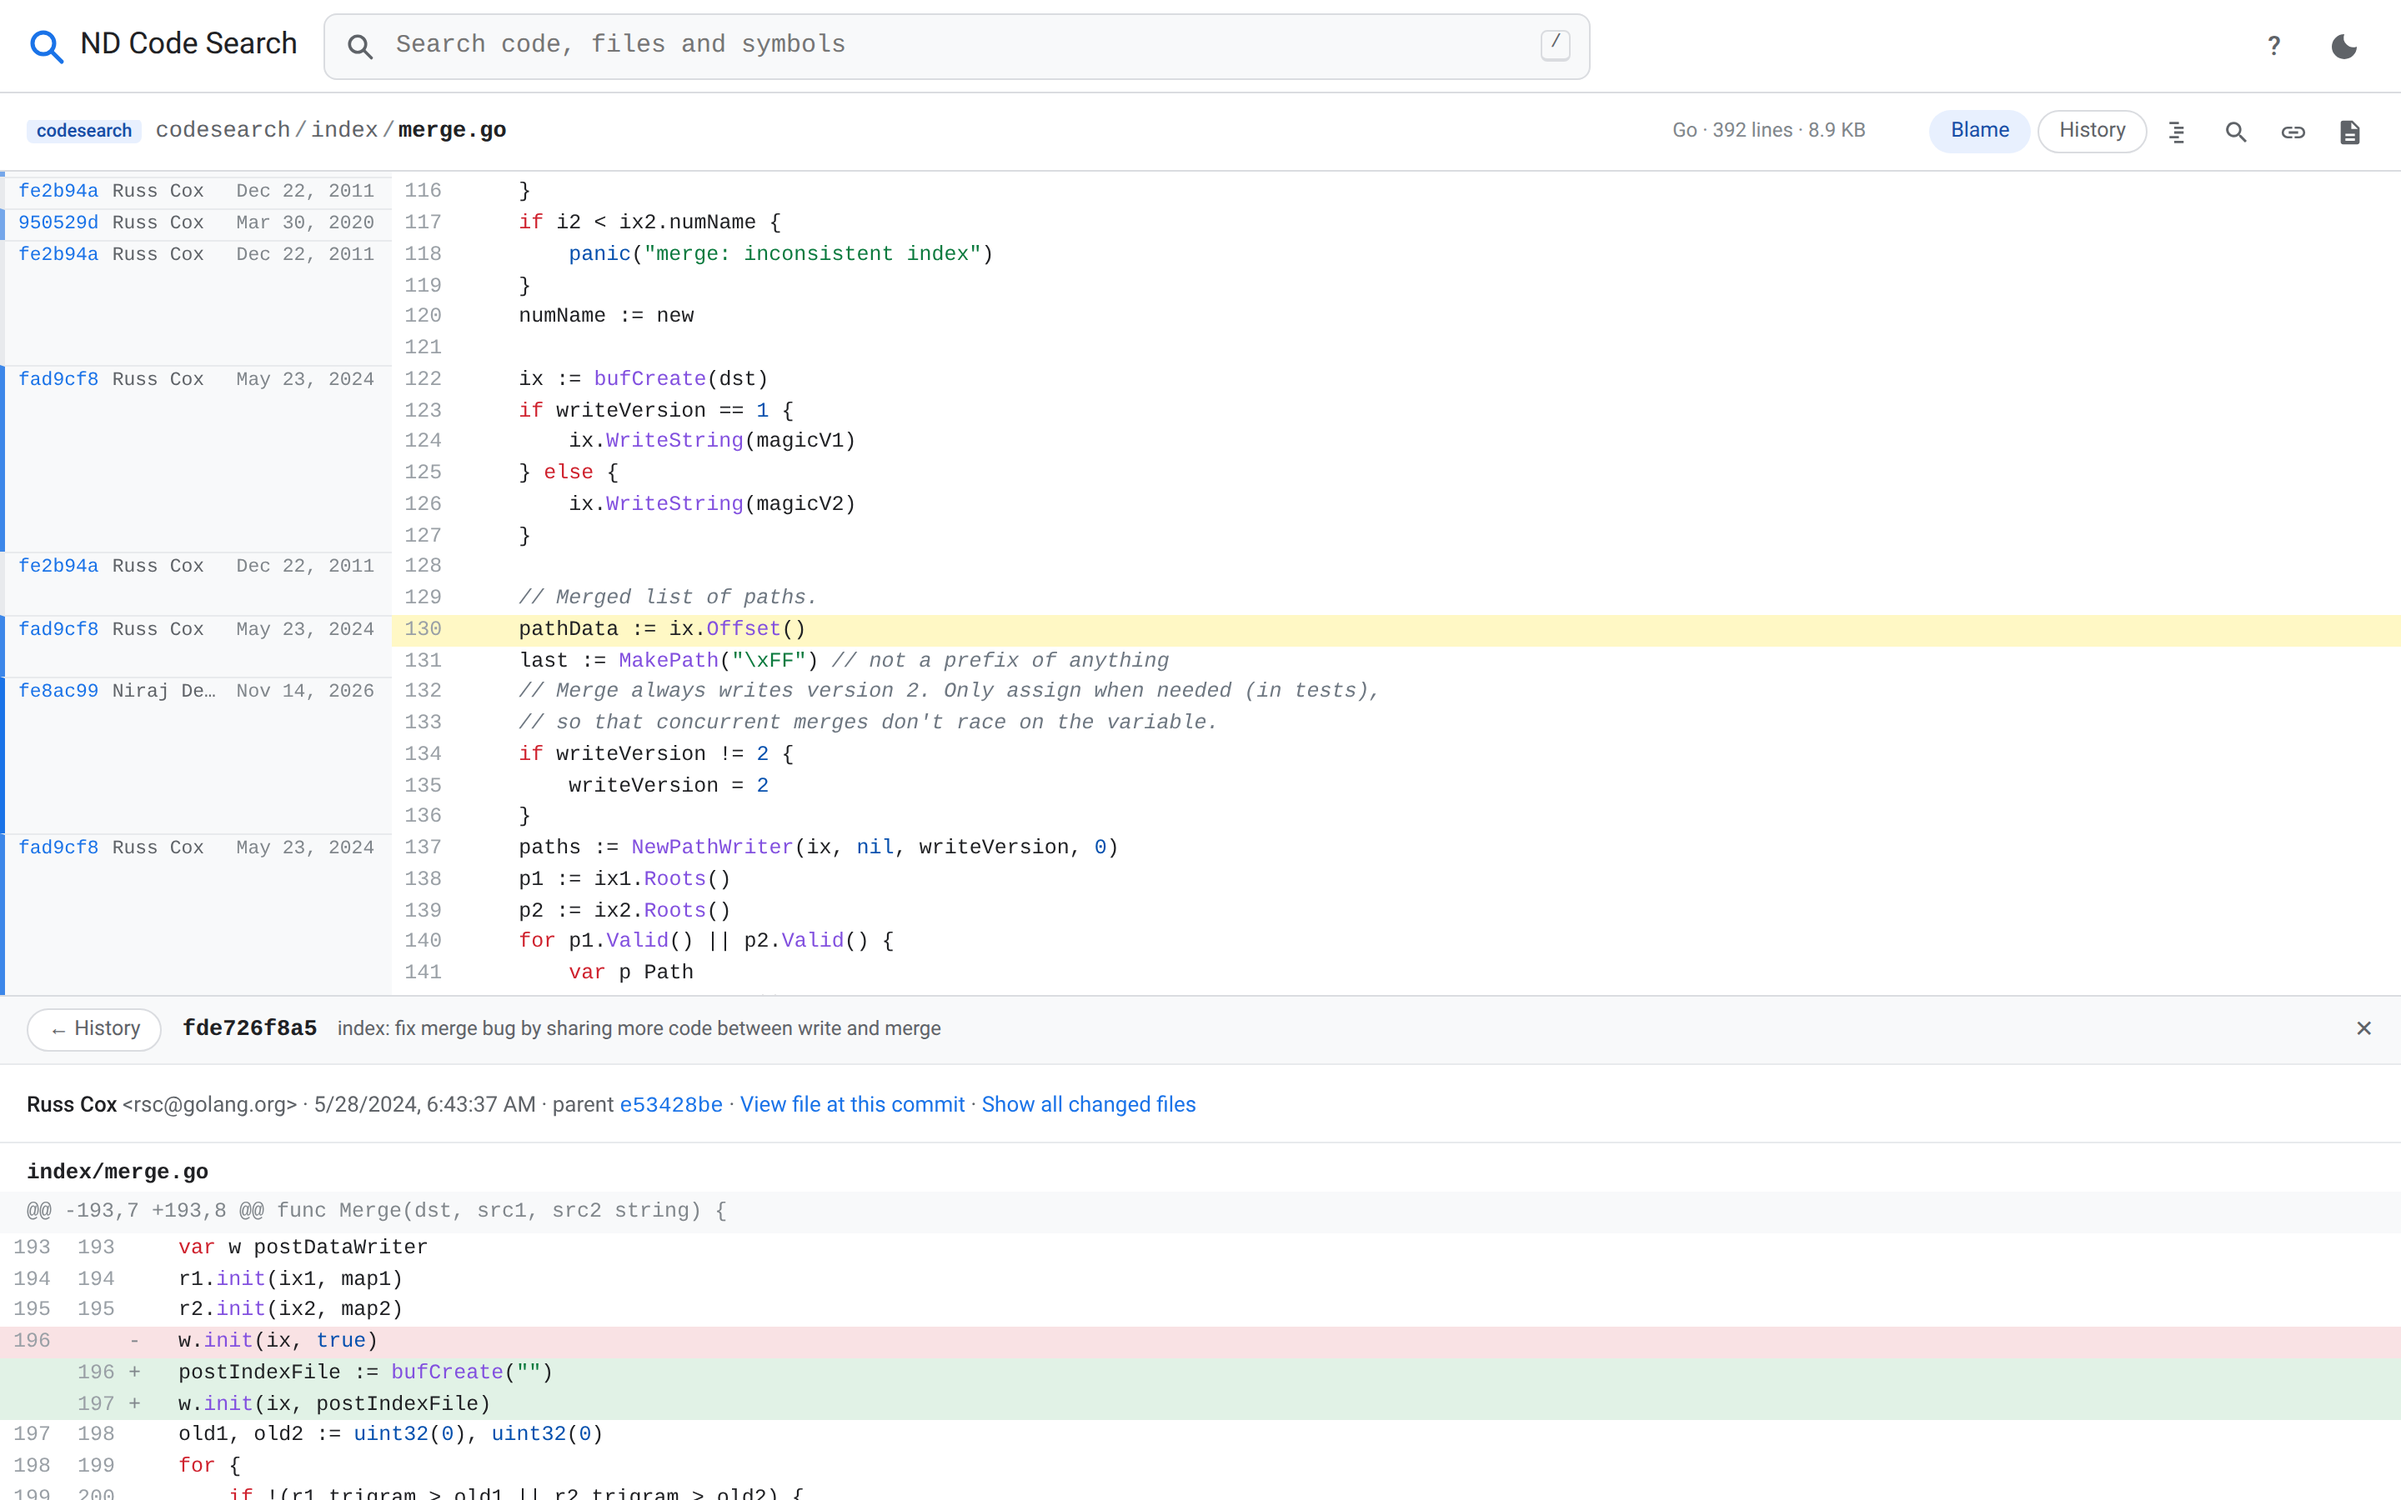
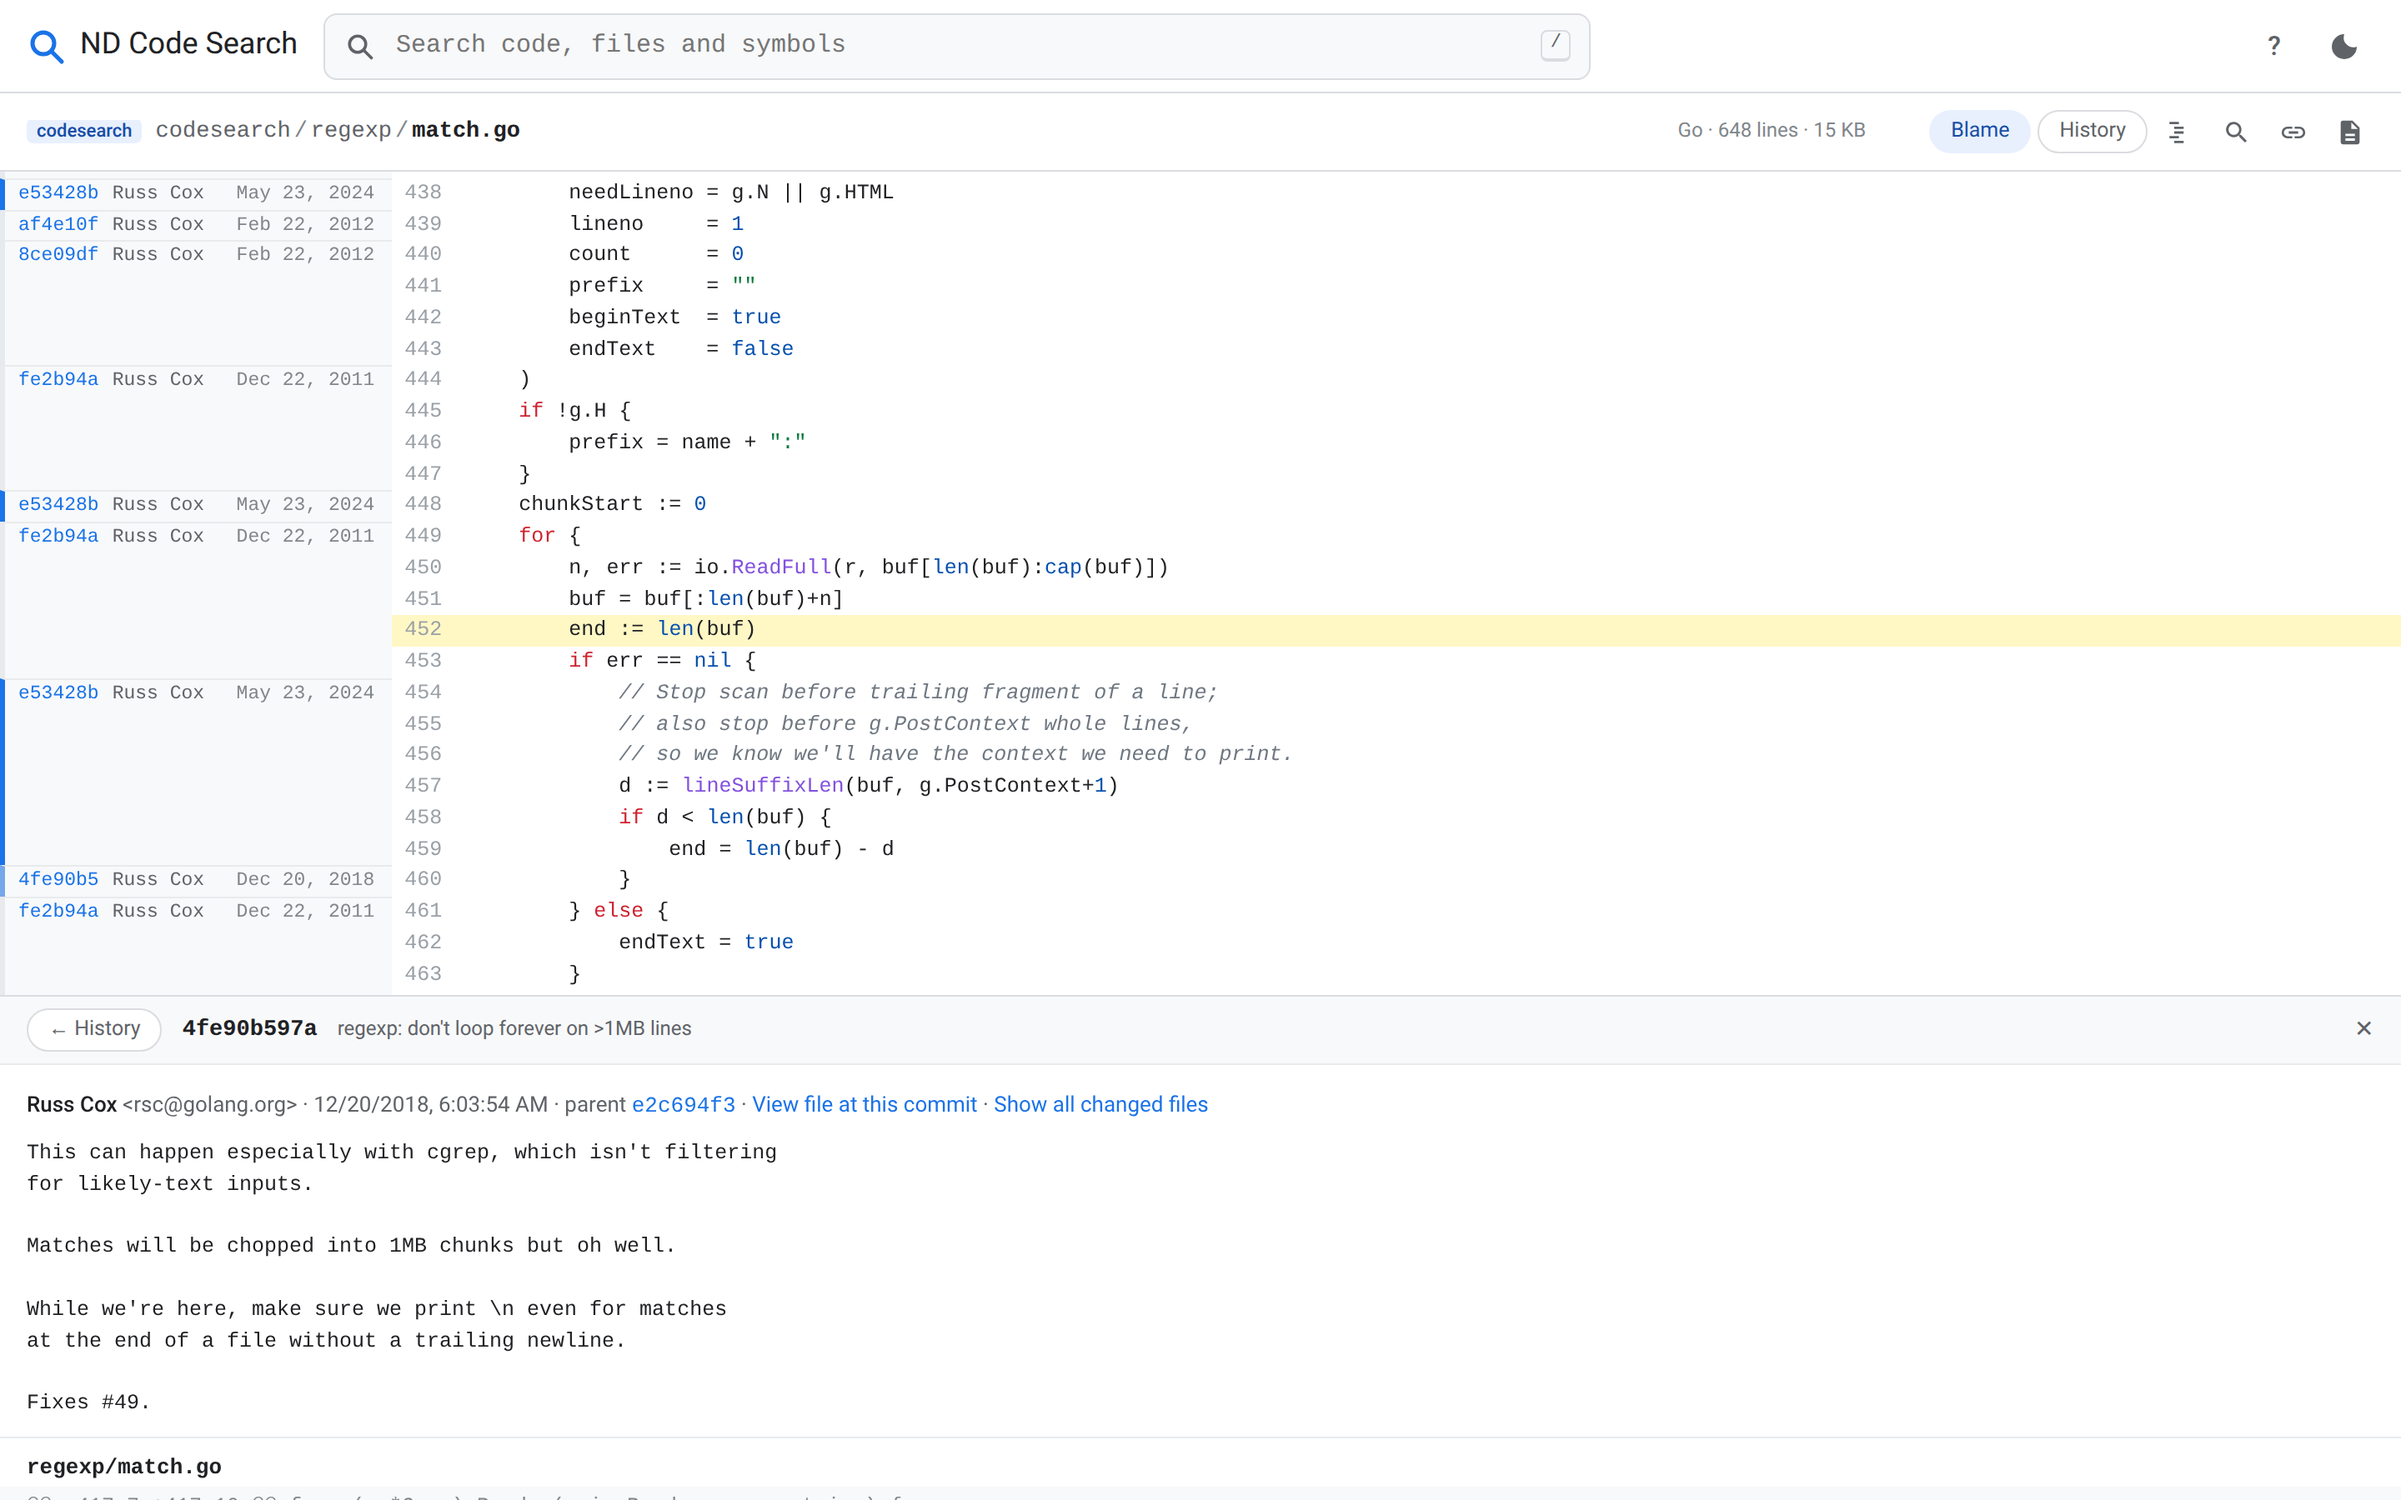
Rename module to github.com/ndesai/codesearch
Use this repository's own import path so the tools can be installed
with "go install github.com/ndesai/codesearch/cmd/...@latest", and
document that in the README.

Also retake the blame screenshot on a file whose history is entirely
from the original authors.

diff --git a/cmd/csweb/api.go b/cmd/csweb/api.go
@@ -24,11 +24,11 @@ import (
 	"unicode/utf8"
 
 	"github.com/alecthomas/chroma/v2"
-	"github.com/google/codesearch/internal/gitignore"
-	"github.com/google/codesearch/internal/indexer"
-	"github.com/google/codesearch/internal/lang"
-	"github.com/google/codesearch/internal/outline"
-	"github.com/google/codesearch/internal/search"
+	"github.com/ndesai/codesearch/internal/gitignore"
+	"github.com/ndesai/codesearch/internal/indexer"
+	"github.com/ndesai/codesearch/internal/lang"
+	"github.com/ndesai/codesearch/internal/outline"
+	"github.com/ndesai/codesearch/internal/search"
 )
 
 type server struct {

diff --git a/internal/indexer/walk.go b/internal/indexer/walk.go
@@ -12,9 +12,9 @@ import (
 	"sync"
 	"sync/atomic"
 
-	"github.com/google/codesearch/index"
-	"github.com/google/codesearch/internal/config"
-	"github.com/google/codesearch/internal/gitignore"
+	"github.com/ndesai/codesearch/index"
+	"github.com/ndesai/codesearch/internal/config"
+	"github.com/ndesai/codesearch/internal/gitignore"
 )
 
 // comparePaths orders slash-separated relative paths the same way the

diff --git a/internal/search/engine.go b/internal/search/engine.go
@@ -18,9 +18,9 @@ import (
 	"sync/atomic"
 	"time"
 
-	"github.com/google/codesearch/index"
-	"github.com/google/codesearch/internal/config"
-	"github.com/google/codesearch/internal/indexer"
+	"github.com/ndesai/codesearch/index"
+	"github.com/ndesai/codesearch/internal/config"
+	"github.com/ndesai/codesearch/internal/indexer"
 )
 
 // An Engine searches the indexed repositories of a configuration.

diff --git a/internal/search/xref.go b/internal/search/xref.go
@@ -18,9 +18,9 @@ import (
 	"sync/atomic"
 	"time"
 
-	"github.com/google/codesearch/index"
-	"github.com/google/codesearch/internal/lang"
-	"github.com/google/codesearch/regexp"
+	"github.com/ndesai/codesearch/index"
+	"github.com/ndesai/codesearch/internal/lang"
+	"github.com/ndesai/codesearch/regexp"
 )
 
 func errorf(format string, args ...any) error { return fmt.Errorf(format, args...) }

diff --git a/internal/search/search_test.go b/internal/search/search_test.go
@@ -13,9 +13,9 @@ import (
 	"strings"
 	"testing"
 
-	"github.com/google/codesearch/internal/config"
-	"github.com/google/codesearch/internal/indexer"
-	"github.com/google/codesearch/internal/lang"
+	"github.com/ndesai/codesearch/internal/config"
+	"github.com/ndesai/codesearch/internal/indexer"
+	"github.com/ndesai/codesearch/internal/lang"
 )
 
 var testFiles = map[string]string{

diff --git a/cmd/csweb/main.go b/cmd/csweb/main.go
@@ -29,9 +29,9 @@ import (
 	"sync/atomic"
 	"time"
 
-	"github.com/google/codesearch/internal/config"
-	"github.com/google/codesearch/internal/indexer"
-	"github.com/google/codesearch/internal/search"
+	"github.com/ndesai/codesearch/internal/config"
+	"github.com/ndesai/codesearch/internal/indexer"
+	"github.com/ndesai/codesearch/internal/search"
 )
 
 var (

diff --git a/internal/search/search.go b/internal/search/search.go
@@ -21,9 +21,9 @@ import (
 	"time"
 	"unicode/utf8"
 
-	"github.com/google/codesearch/index"
-	"github.com/google/codesearch/internal/lang"
-	"github.com/google/codesearch/regexp"
+	"github.com/ndesai/codesearch/index"
+	"github.com/ndesai/codesearch/internal/lang"
+	"github.com/ndesai/codesearch/regexp"
 )
 
 // Options limit the work done by a search.

diff --git a/internal/indexer/indexer_test.go b/internal/indexer/indexer_test.go
@@ -14,8 +14,8 @@ import (
 	"testing"
 	"time"
 
-	"github.com/google/codesearch/index"
-	"github.com/google/codesearch/internal/config"
+	"github.com/ndesai/codesearch/index"
+	"github.com/ndesai/codesearch/internal/config"
 )
 
 func testConfig(t *testing.T, root string, shardFiles int) *config.Config {

diff --git a/cmd/csearch/csearch.go b/cmd/csearch/csearch.go
@@ -14,8 +14,8 @@ import (
 	"runtime/pprof"
 	"strings"
 
-	"github.com/google/codesearch/index"
-	"github.com/google/codesearch/regexp"
+	"github.com/ndesai/codesearch/index"
+	"github.com/ndesai/codesearch/regexp"
 )
 
 var usageMessage = `usage: csearch [-c] [-f fileregexp] [-h] [-i] [-l] [-n] regexp

diff --git a/internal/indexer/indexer.go b/internal/indexer/indexer.go
@@ -31,8 +31,8 @@ import (
 	"sync/atomic"
 	"time"
 
-	"github.com/google/codesearch/index"
-	"github.com/google/codesearch/internal/config"
+	"github.com/ndesai/codesearch/index"
+	"github.com/ndesai/codesearch/internal/config"
 )
 
 var errLocked = errors.New("another indexer is already running")

diff --git a/cmd/csindex/main.go b/cmd/csindex/main.go
@@ -26,8 +26,8 @@ import (
 	"text/tabwriter"
 	"time"
 
-	"github.com/google/codesearch/internal/config"
-	"github.com/google/codesearch/internal/indexer"
+	"github.com/ndesai/codesearch/internal/config"
+	"github.com/ndesai/codesearch/internal/indexer"
 )
 
 var (

diff --git a/internal/search/query.go b/internal/search/query.go
@@ -12,8 +12,8 @@ import (
 	"strings"
 	"unicode"
 
-	"github.com/google/codesearch/index"
-	"github.com/google/codesearch/internal/lang"
+	"github.com/ndesai/codesearch/index"
+	"github.com/ndesai/codesearch/internal/lang"
 )
 
 // Query is a parsed search query.
